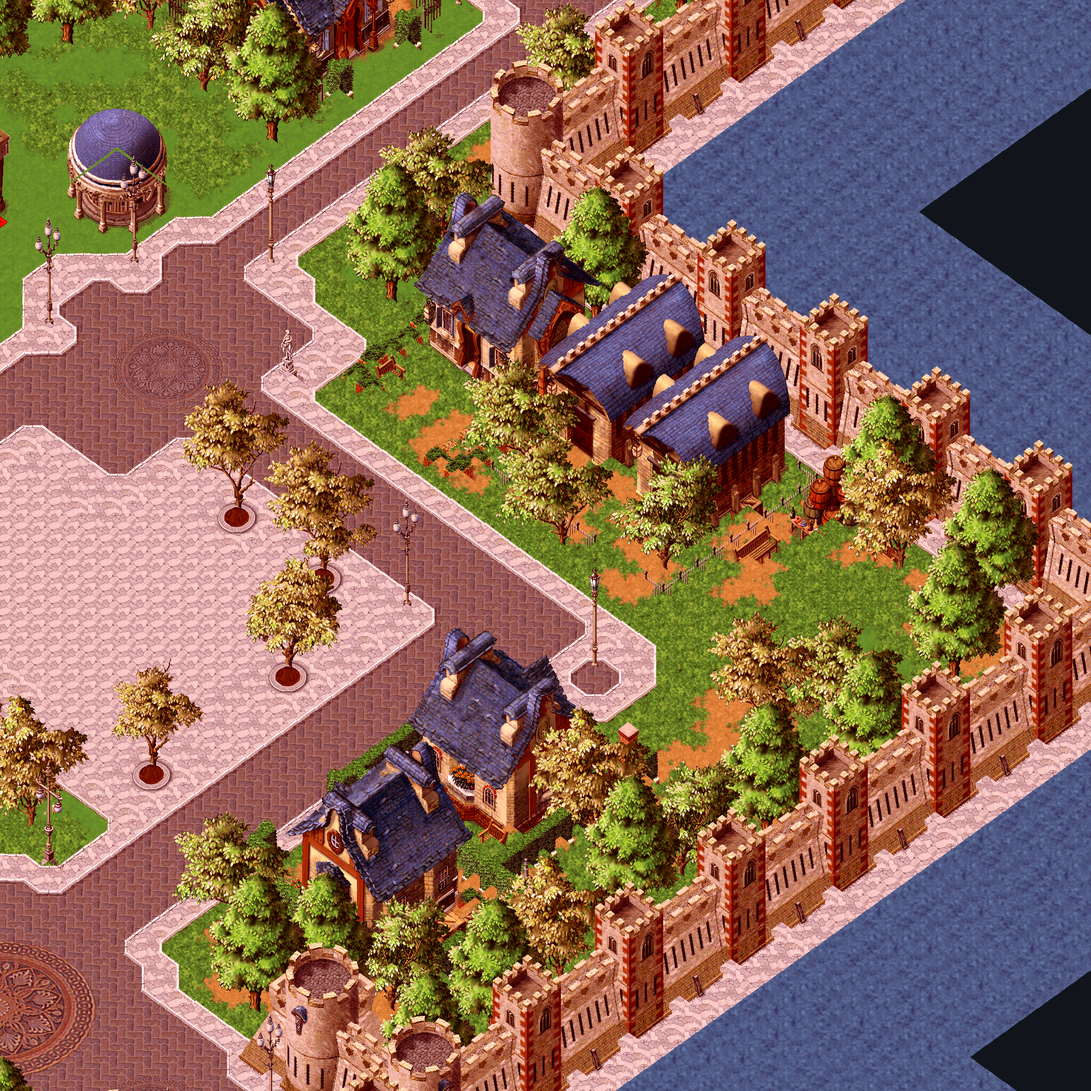
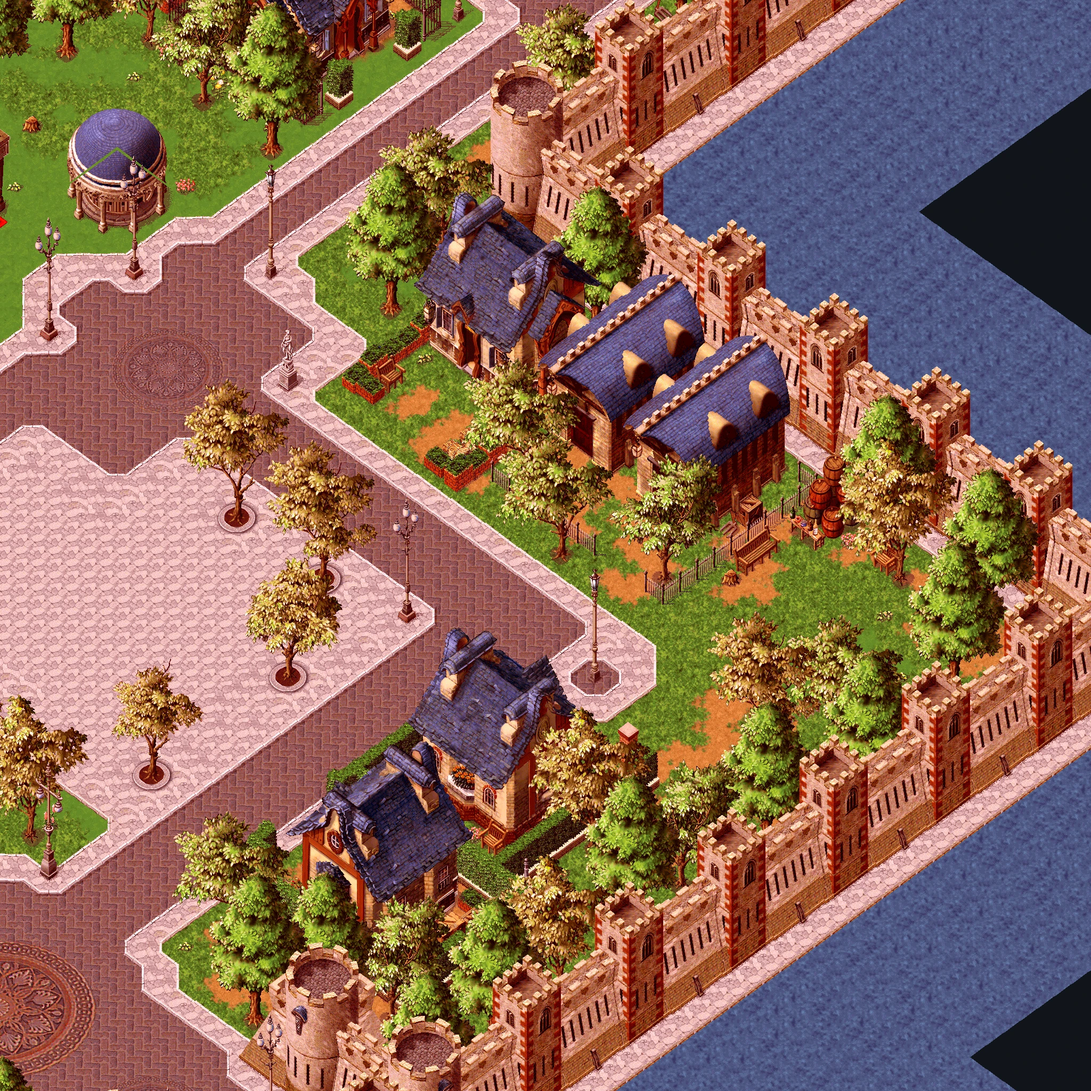
fix(home): correct falan map layering and use full map asset

diff --git a/index.html b/index.html
@@ -1,10 +1,10 @@
 <!DOCTYPE html>
-<!-- 法兰城 v3.15 -->
+<!-- 法兰城 v3.16 -->
 <html lang="zh">
 <head>
 <meta charset="UTF-8">
 <meta name="viewport" content="width=device-width, initial-scale=1.0">
-<title>法兰城 v3.15</title>
+<title>法兰城 v3.16</title>
 <style>
 :root {
   --bg: #0f1711;
@@ -495,9 +495,9 @@ button:hover {
       <div class="eyebrow">Cross Gate Falan Map</div>
         <div class="title-row">
         <h1>法兰城</h1>
-        <div class="version">v3.15</div>
+        <div class="version">v3.16</div>
       </div>
-      <p>这一版把首页的法兰城直接切成了《魔力宝贝》客户端里拼出来的真实主城地图。现在先保留旅人选择、移动和进入黑白棋会馆这些交互，再逐步把真实碰撞、重点建筑和更多功能一点点接回来。</p>
+      <p>这一版先回到《魔力宝贝》客户端里拼出来的完整法兰城原图，方便我们更快核对道路、建筑和碰撞关系。旅人选择、移动和进入黑白棋会馆这些交互会继续保留。</p>
     </section>
 
     <section class="layout">
@@ -511,7 +511,7 @@ button:hover {
             <div class="badge">Cross Gate 原始地图</div>
             <div class="badge">1000.dat</div>
             <div class="badge">11128 x 8300 原图</div>
-            <div class="badge">分块动态加载</div>
+            <div class="badge">完整原图直载</div>
             <div class="badge">碰撞遮罩试装</div>
           </div>
         </div>
@@ -519,7 +519,7 @@ button:hover {
           <button type="button" class="map-fullscreen-exit" id="mapFullscreenExit">退出全屏</button>
           <canvas id="isoCanvas" width="960" height="720"></canvas>
         </div>
-        <div class="note">当前首页会先用一张轻量预览图垫底，再只加载你附近那几块法兰城原始图块。这样保留原图清晰度的同时，不需要每一帧都把整张大地图一起搬上屏幕。</div>
+        <div class="note">为了快速迭代法兰城布局，这一版先直接使用完整原图。这样修正层级和定位问题时会更直接，后面如果需要再切回更激进的性能方案。</div>
       </div>
 
       <aside class="side">
@@ -645,14 +645,10 @@ function loadImage(src) {
 }
 
 const sceneMap = {
-  previewImage: loadImage('./assets/falan/map/falan-city-1000-preview.png'),
+  mapImage: loadImage('./assets/falan/map/falan-city-1000.png'),
   collisionImage: loadImage('./assets/falan/map/falan-city-1000-occupancy.png'),
   width: 11128,
   height: 8300,
-  previewWidth: 2003,
-  previewHeight: 1494,
-  tileSize: 2048,
-  tileBase: './assets/falan/map/tiles',
   cols: 300,
   rows: 300,
   halfW: 32,
@@ -1146,16 +1142,14 @@ function drawFocusMarker(tick) {
   ctx.fillText(focus.label, point.x + 14, point.y - 16);
 }
 
-function drawPreviewSlice(sx, sy, sw, sh) {
-  if (!sceneMap.previewImage.complete || !sceneMap.previewImage.naturalWidth) return false;
-  const scaleX = sceneMap.previewWidth / sceneMap.width;
-  const scaleY = sceneMap.previewHeight / sceneMap.height;
+function drawMapSlice(sx, sy, sw, sh) {
+  if (!sceneMap.mapImage.complete || !sceneMap.mapImage.naturalWidth) return false;
   ctx.drawImage(
-    sceneMap.previewImage,
-    sx * scaleX,
-    sy * scaleY,
-    sw * scaleX,
-    sh * scaleY,
+    sceneMap.mapImage,
+    sx,
+    sy,
+    sw,
+    sh,
     0,
     0,
     sw,
@@ -1191,13 +1185,11 @@ function drawScene(tick) {
   const sy = Math.max(0, Math.floor(camera.y));
   const sw = Math.min(canvas.width, sceneMap.width - sx);
   const sh = Math.min(canvas.height, sceneMap.height - sy);
-  const bounds = updateVisibleTiles();
-  const drewPreview = drawPreviewSlice(sx, sy, sw, sh);
-  if (!drewPreview) {
+  const drewMap = drawMapSlice(sx, sy, sw, sh);
+  if (!drewMap) {
     ctx.fillStyle = '#27362d';
     ctx.fillRect(0, 0, canvas.width, canvas.height);
   }
-  drawLoadedTiles(bounds, sx, sy, sw, sh);
 
   drawFocusMarker(tick);
   drawPlayer();
